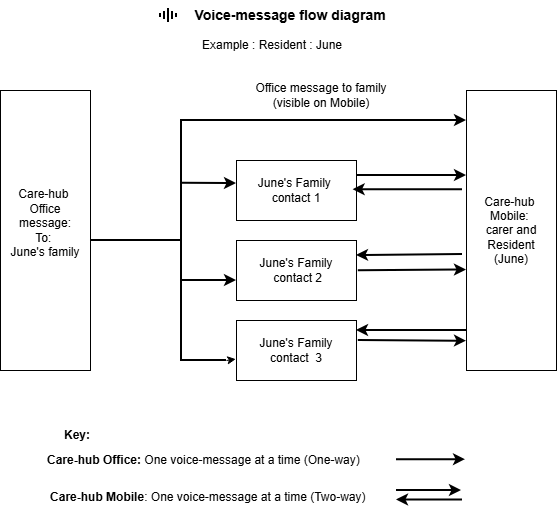
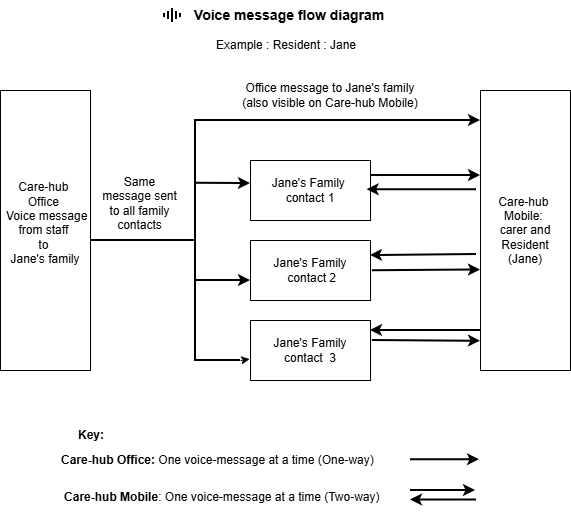
Update_handbook_structure_and_publish_latest_flow_diagram

diff --git a/docs/office/05_care_home_guide.md b/docs/office/05_care_home_guide.md
@@ -7,35 +7,57 @@ It explains how the Care Hub is used day to day across the Care Hub – Mobile a
 
 ## System structure
 
-The service has three interfaces linked to the resident's care circle:
+The service provides three user interfaces connected to a resident's care circle:
 
-- Care Hub – Mobile (carer operational interface supporting each resident with messaging)
-- Care Hub – Office (office/admin interface)
-- Family App (family members, friends, and other authorised contacts)
+- Care Hub – Mobile: the operational interface used by carers to support the resident and manage voice messaging
+- Care Hub – Office: the office/administration interface used by care-home staff
+- Family App: used by family members, friends, and other authorised contacts
 
-Each interface has separate controls for the messages it creates.
-The messaging system uses two types of channels linked to each resident: two-way contact channels and a one-way Office update channel.
+Each interface has its own controls for creating and managing the messages it sends.
+
+The messaging system uses two types of channels linked to each resident:
+
+- Two-way contact channels between the resident and authorised contacts
+- A one-way Office update channel used by the care home to send updates to authorised contacts
 
 ## Message playback and control
 
-In each direction, only one current message is kept. A new message replaces the previous message in that same direction.
-Messages in a contact channel may only be played by authorised users of that specific channel. Other authorised contacts cannot access those messages. Care home staff using Care Hub – Mobile and Care Hub – Office may also play messages for operational support.
-No group can directly replace another group's message.
+In every direction of communication, only one current message is stored at a time.
+When a new message is recorded, it replaces the previous message in that same direction.
+
+Messages within a contact channel can only be played by authorised users of that specific channel. Other authorised contacts cannot access those messages.
+
+Care-home staff using Care Hub – Mobile or Care Hub – Office may also play messages when required for operational support.
+
+Messages are controlled by the group that created them. One group cannot directly replace another group's message.
+
+## Voice Message Flow Example
 
 ![Voice message flow diagram](../../assets/voice-message-flow-diagram.png)
 
 Example: Jane
 
-This diagram shows how voice messages and updates are organised for a single resident, using Jane as the example. Each authorised contact has their own two-way message channel with Jane. In each channel there is one current message from the contact to Jane and one current message from Jane to that contact. When a new message is recorded, it replaces the previous message in that direction.
+The diagram shows how voice messages are organised for a single resident.
 
-The care home can also send a one-way Office update to Jane's authorised contacts. Only one Office update is kept at a time, and a new update replaces the previous one.
+Each authorised contact communicates with the resident through their own two-way contact channel. In each channel there is:
+
+- one current message from the contact to Jane
+- one current message from Jane to that contact
+
+When a new message is recorded in either direction, it replaces the previous message in that direction.
+
+The care home can also send a one-way Office update to all authorised contacts. Only one Office update is stored at a time, and a new update replaces the previous one.
 
 ## Authorised contact channel structure
 
-For each resident, family/friend communication is organised into authorised contact channels.
-An authorised contact channel may contain one authorised contact or multiple authorised contacts where the home configures a shared channel.
+For each resident, communication with family and friends is organised through authorised contact channels.
 
-Each two-way contact channel keeps one current message each way at any one time.
+An authorised contact channel may contain:
+
+- a single authorised contact, or
+- multiple authorised contacts where the care home configures a shared channel
+
+Each two-way contact channel keeps one current message in each direction.
 The Office update channel is separate and one-way from the care home to authorised contacts.
 
 ## Day-to-day use